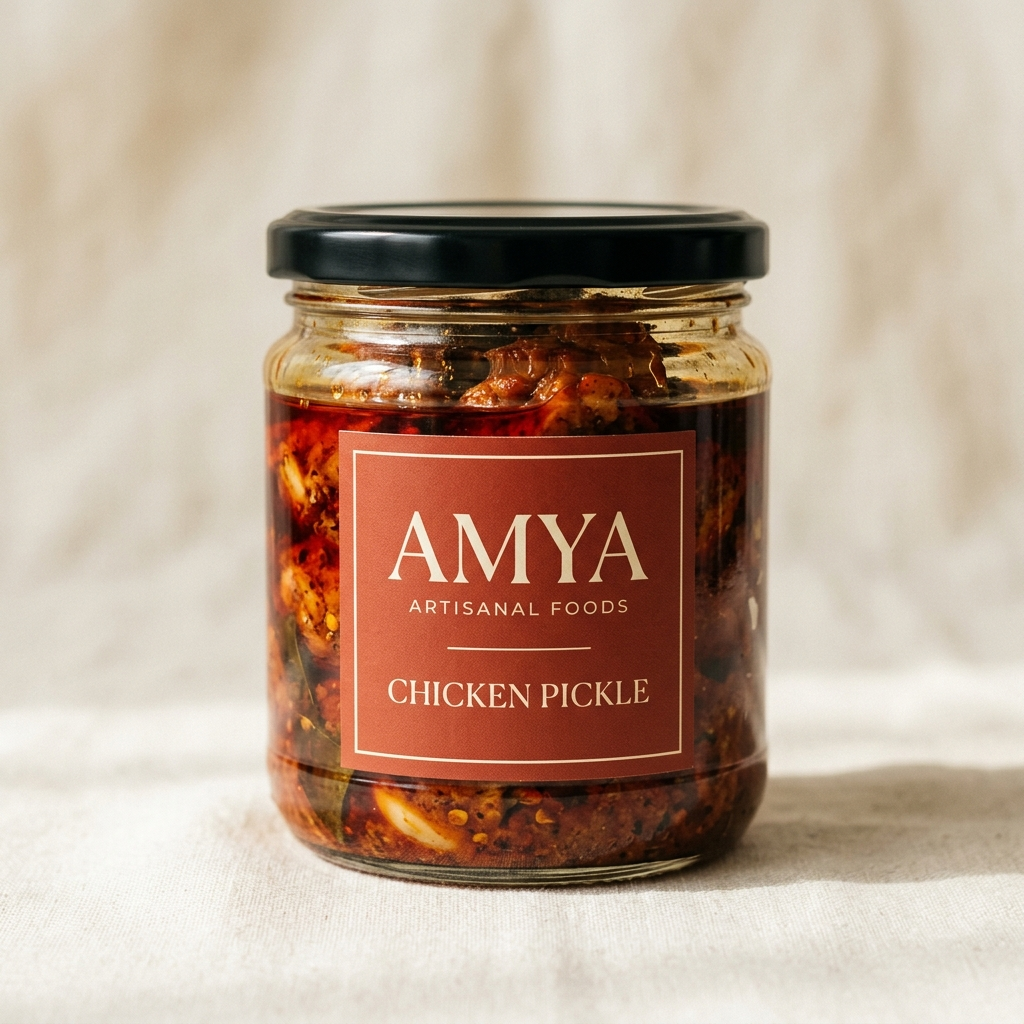
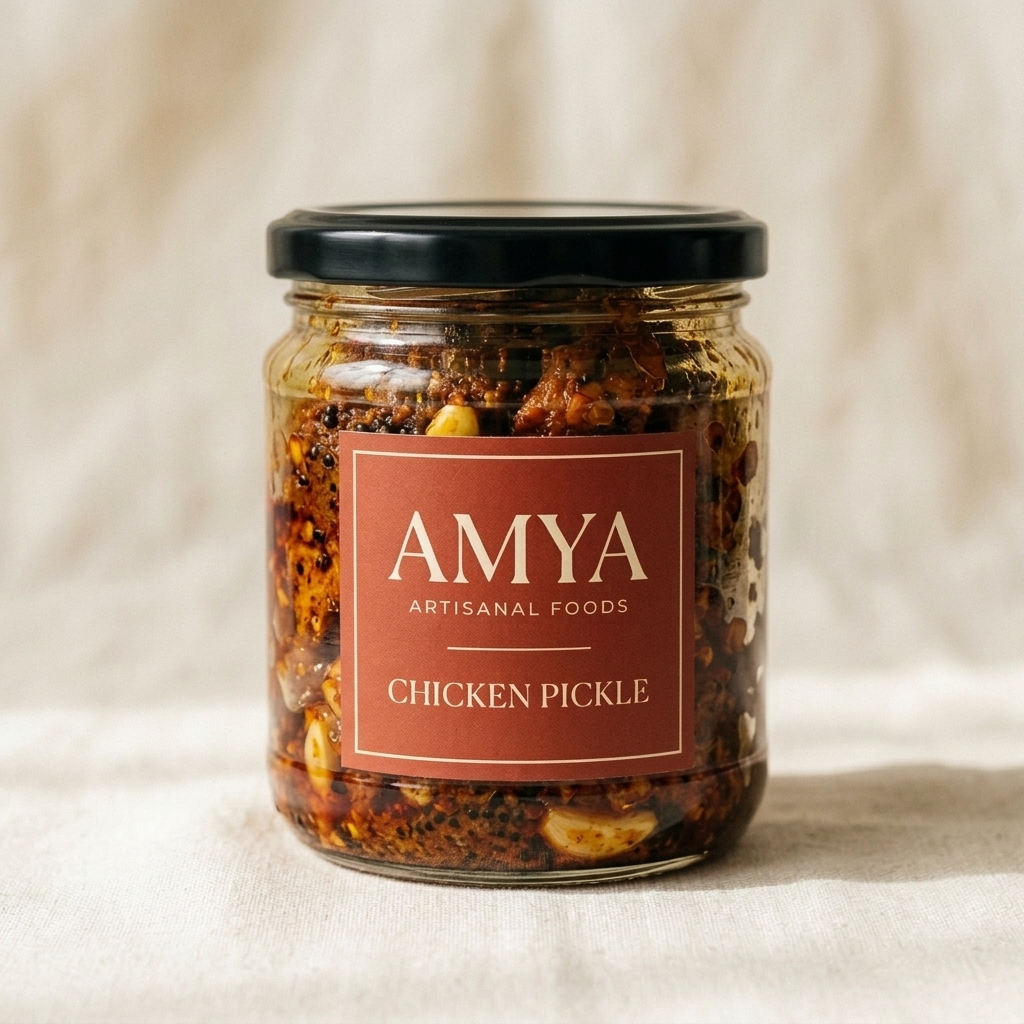
I have updated the pickle contents inside the jars (using image editing on each existing jar) while maintaining the original glass jar, matte black lid, AMYA terracotta label/text, ivory background, framing, and image dimensions: - **Prawn** — small naturally-curled prawns with garlic, mustard seeds
I have checked the grid and full resolution for label clarity, correct spelling, branding preservation, image integrity, consistency in crop/size on both mobile and desktop. Availability (4 Available to Order, 2 Out of Stock), prices, pack sizes and Add-to-Cart remain unchanged.

Please review these updates on the **preview** (cache-bumped to v2). Deployments were initiated, but to see these authentic textures live on amyafoods.in, a **redeploy** is required after your approval, as the live build may include earlier versions.

**Next Action Items:**
- **Review & Redeploy**: Please approve the authentic jar contents and redeploy to make them live
- **Real Jar Photos**: If you later have real studio photos of the jars, upload them and I can replace the images 1:1
- **Cashfree Checkout**: Online payments can resume once you provide the delivery-charge decision and sandbox API keys in the secure environment

Once approved, I can also feature a "Traditional Pickles" strip on the homepage using the Prawn/Chicken jars to help cross-sell the in-stock range. Let me know if you'd like to add this.

Please test the preview and let me know if any further adjustments are needed or if you would like me to continue with a more comprehensive review and testing.

Emergent-Commit-Key: 7b427174c2a6d15f8c4b365ac27ba488e85245462c28979bc9e10811fafbce03

Changed region(s): [[0.25, 0.2812, 0.75, 0.875]]

diff --git a/backend/server.py b/backend/server.py
@@ -812,7 +812,7 @@ async def seed():
                 {"label": "500 g", "price": prices[1]},
                 {"label": "1 kg", "price": prices[2]},
             ]
-            p["images"] = [f"/products/{p['slug']}.jpg?v=1"]
+            p["images"] = [f"/products/{p['slug']}.jpg?v=2"]
         images = p.pop("images", [])
         # `availability` is admin-managed inventory: set it only on first insert so
         # changes made in the admin panel (e.g. marking stock back in) persist across

diff --git a/memory/PRD.md b/memory/PRD.md
@@ -453,3 +453,6 @@ Note: changes are post an earlier deploy initiation — a redeploy is needed to 
 ## Changelog — 2026-10-11 (Pickle glass-jar images)
 - Replaced the CSS "PACKAGING CONCEPT" pickle mockups with premium glass-jar product images in the approved AMYA label style (terracotta square label, ivory serif "AMYA / ARTISANAL FOODS / <PRODUCT>", clear glass jar, matte black lid, realistic Andhra pickle visible, warm ivory background). NOTE: no real glass-jar photo existed in project assets (only pouches/cashew boxes), so these are AI-generated renders using the founder's approved label/brand style per their explicit request; awaiting founder review before deploy. Each product shows correct contents: Prawn (prawns), Chicken (boneless chicken), Mutton (mutton pieces), Allam Sweet (smooth chunk-free ginger paste), Avakai (cut mango), Maagai (traditional maagai).
 - Files: /app/frontend/public/products/{prawn,chicken,mutton,allam-sweet,avakai,maagai}-pickle.jpg (1024², ~0.6MB). Seed sets pickle images in the category block (?v=1); added all 6 pickle slugs to FORCE_IMAGE_SLUGS so a restart/redeploy force-syncs images to existing docs. Verified: API returns image paths, all serve 200, grid + mobile render with 0 broken images, availability preserved (Chicken/Allam/Mutton/Prawn=in-stock, Avakai/Maagai=out-of-stock), prices/pack sizes/cart/labels/buttons unchanged. NOT published — preview only, pending founder approval.
+
+## Changelog — 2026-10-11 (Authentic pickle contents v2)
+- Corrected the pickle CONTENTS inside the glass jars via AI image EDITING (reference = each existing jar), preserving the jar, matte black lid, AMYA terracotta label/text, ivory background, framing and 1024² dimensions exactly. Updated 5: Prawn (curled prawns, garlic, mustard, red oily masala — pickle not curry), Chicken (fried boneless pieces, reddish-brown coating, garlic), Mutton (chunky boneless pieces, dark masala, spiced oil — not minced/gravy), Maagai (thin dried-mango strips in dark red-brown masala), Avakai/Aavakaya (firm raw-mango chunks, coarse chilli+mustard, oily). Allam Sweet left unchanged (not requested). Files overwritten at /app/frontend/public/products/<slug>.jpg; cache bumped to ?v=2 in seed; FORCE_IMAGE_SLUGS force-syncs on deploy. Verified grid + full-res: labels crisp/correct, branding preserved, 0 broken images, availability/prices/pack sizes/cart unchanged. Preview only — redeploy needed for live.
